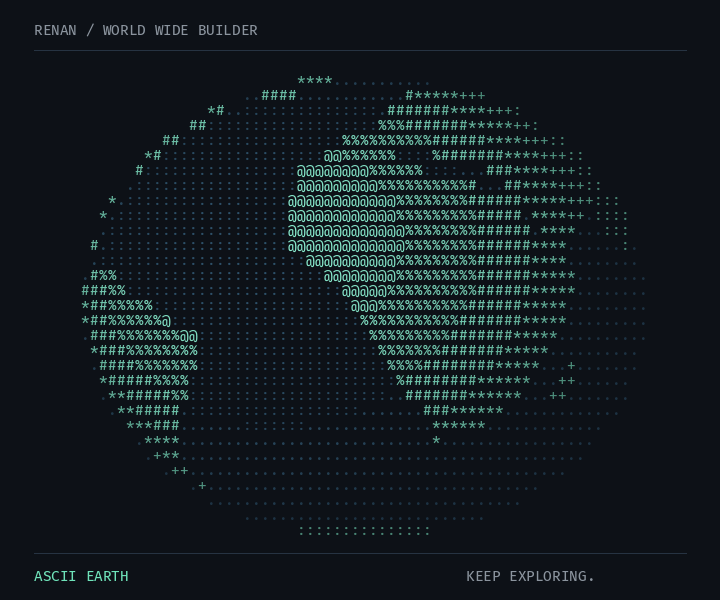
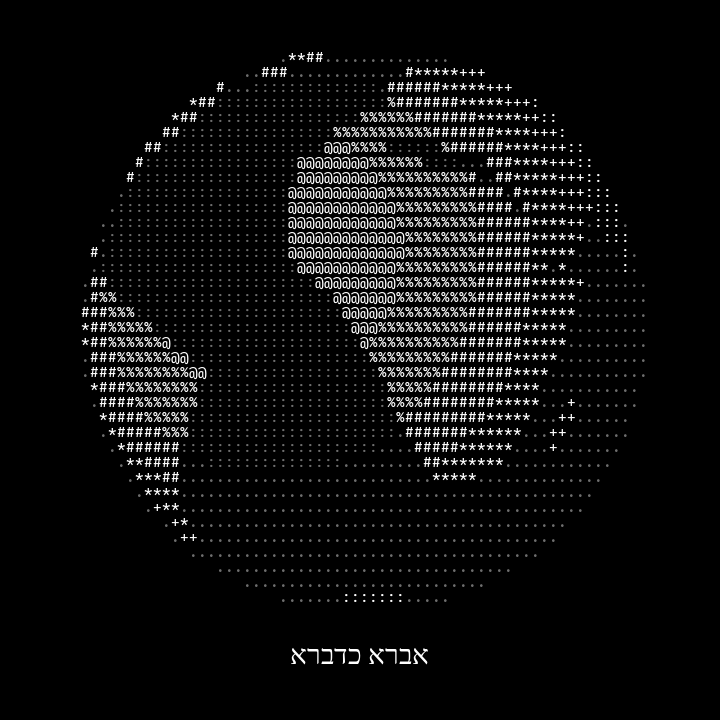
Make ASCII globe round and monochrome with Aramaic caption

diff --git a/generate_globe.py b/generate_globe.py
@@ -7,6 +7,7 @@ ROOT = Path(__file__).resolve().parent
 OUT = ROOT / 'assets'
 OUT.mkdir(exist_ok=True)
 FONT = ImageFont.truetype('/usr/share/fonts/TTF/FiraCodeNerdFont-Retina.ttf', 14)
+HEBREW_FONT = ImageFont.truetype('/usr/share/fonts/liberation/LiberationSerif-Regular.ttf', 28)
 # Hand-drawn, deliberately low-resolution continent silhouettes (longitude, latitude).
 LAND = [
  [(-168,70),(-140,72),(-125,60),(-110,57),(-95,72),(-60,53),(-80,26),(-98,17),(-112,30),(-128,50),(-160,60)],
@@ -23,24 +24,14 @@ LAND = [
  [(166,-35),(178,-38),(170,-47),(166,-45)],
  [(-180,-74),(-120,-70),(-60,-75),(0,-71),(60,-73),(120,-70),(180,-74),(180,-90),(-180,-90)],
 ]
-def inside(x,y,p):
-    result=False
-    j=len(p)-1
-    for i,(xi,yi) in enumerate(p):
-        xj,yj=p[j]
-        if (yi>y)!=(yj>y) and x < (xj-xi)*(y-yi)/(yj-yi)+xi:
-            result=not result
-        j=i
-    return result
-
 # Precompute the map and visible sphere geometry for fast, deterministic frames.
 mask=Image.new('1',(720,360))
 md=ImageDraw.Draw(mask)
 for polygon in LAND:
     md.polygon([((lon+180)*2,(90-lat)*2) for lon,lat in polygon],fill=1)
 points=[]
-for row in range(31):
-    y=(row-15)/15.5
+for row in range(39):
+    y=(row-19)*15/283.5
     for col in range(63):
         x=(col-31)/31.5
         if x*x+y*y>=1: continue
@@ -51,24 +42,20 @@ for row in range(31):
         points.append((col,row,lat,lon,light))
 frames=[]
 for frame in range(96):
-    im=Image.new('RGB',(720,600),'#0d1117')
+    im=Image.new('RGB',(720,720),'#000000')
     draw=ImageDraw.Draw(im)
-    draw.text((34,22),'RENAN / WORLD WIDE BUILDER',font=FONT,fill='#8b949e')
-    draw.line((34,50,686,50),fill='#263342')
     phase=2*math.pi*frame/96
     for col,row,lat,lon,light in points:
         longitude=(math.degrees(lon+phase)+180)%360-180
         land=mask.getpixel((int((longitude+180)*2)%720,min(359,int(180-math.degrees(lat)*2))))
         if land:
             char=':+*#%@'[min(5,int(light*6))]
-            color=(int(60+80*light),int(115+125*light),int(100+110*light))
+            color=(255,255,255)
         else:
             char='.' if light<.65 else ':'
-            color=(int(25+22*light),int(45+38*light),int(60+48*light))
-        draw.text((81+col*9,72+row*15),char,font=FONT,fill=color)
-    draw.line((34,553,686,553),fill='#263342')
-    draw.text((34,568),'ASCII EARTH',font=FONT,fill='#6fe3ba')
-    draw.text((466,568),'KEEP EXPLORING.',font=FONT,fill='#8b949e')
+            color=(110,110,110)
+        draw.text((81+col*9,34+row*15),char,font=FONT,fill=color)
+    draw.text((360,655),'אברא כדברא',font=HEBREW_FONT,fill='white',anchor='mm',direction='rtl')
     frames.append(im)
 # A single shared palette avoids flicker during rotation.
 palette=frames[0].quantize(colors=64)

diff --git a/README.md b/README.md
@@ -1,5 +1,3 @@
 <p align="center">
-  <img src="assets/ascii-globe.gif" alt="A rotating Earth drawn with ASCII characters in mint green and dark blue" width="600">
+  <img src="assets/ascii-globe.gif" alt="A rotating black-and-white ASCII globe above the Aramaic phrase אברא כדברא" width="600">
 </p>
-
-<!-- Profile introduction and featured projects will go here. -->
